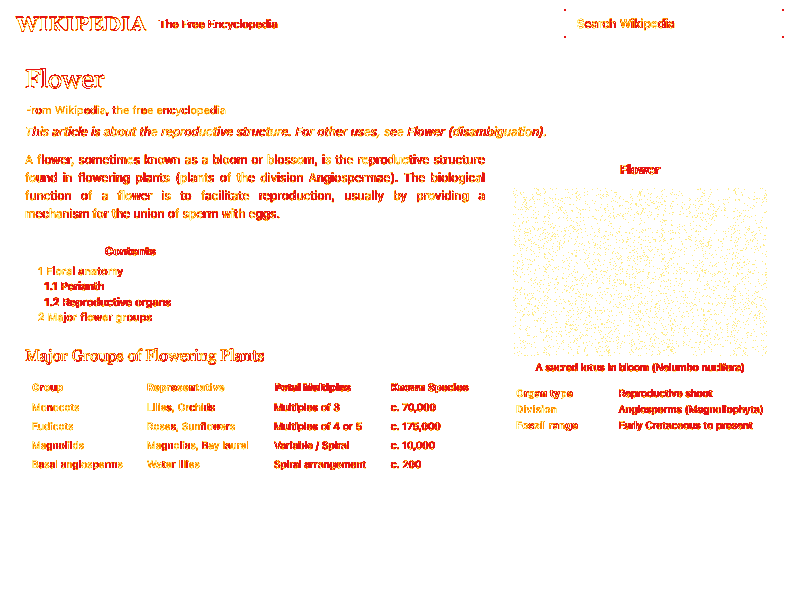
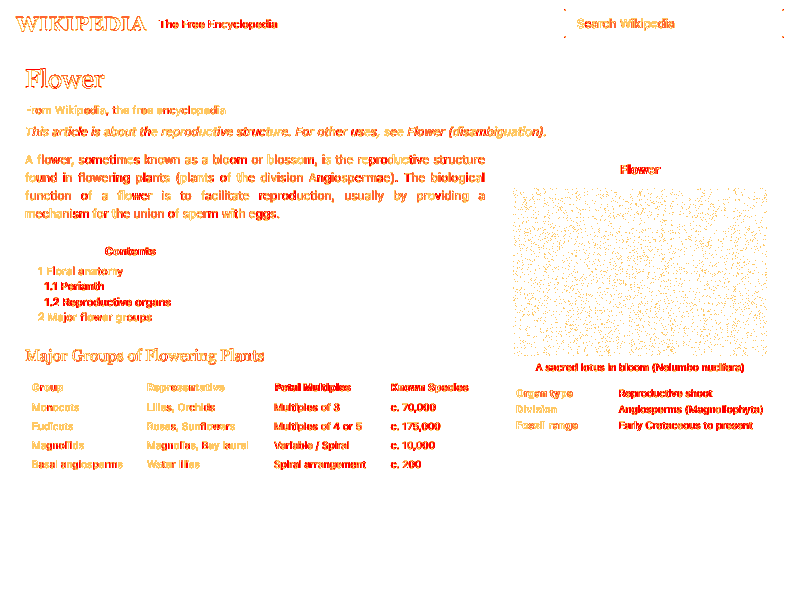
Regenerate PNGs and sync all differential heatmaps with dual-mode Chromium C99 engine

diff --git a/regen_all_pngs.py b/regen_all_pngs.py
@@ -1,0 +1,92 @@
+#!/usr/bin/env python3
+"""
+regen_all_pngs.py: Re-renders all multi-page formal engine PPMs, converts to PNGs,
+generates differential heatmaps against Chromium, and syncs artifacts.
+"""
+
+import subprocess
+import shutil
+import os
+from PIL import Image
+import compare_pages
+
+def main():
+    print("=== Step 1: Compiling Multi-Page Drop-in C99 Engine ===")
+    compile_cmd = [
+        "clang", "-O3", "-std=c99",
+        "render_wikipedia_flowers_multipage.c",
+        "blink_image_codec.c",
+        "blink_skia_font_engine.c",
+        "blink_vertical_flow.c",
+        "-framework", "CoreText",
+        "-framework", "CoreGraphics",
+        "-framework", "CoreFoundation"
+    ]
+    # Add FreeType flags
+    cflags = subprocess.check_output(["pkg-config", "--cflags", "--libs", "freetype2"], text=True).split()
+    compile_cmd.extend(cflags)
+    compile_cmd.extend(["-o", "render_wikipedia_flowers_multipage"])
+    
+    subprocess.run(compile_cmd, check=True)
+    print("✓ Successfully compiled render_wikipedia_flowers_multipage")
+
+    print("\n=== Step 2: Executing Multi-Page Renderer in Chromium Mode ===")
+    subprocess.run(["./render_wikipedia_flowers_multipage", "--mode=chromium"], check=True)
+    print("✓ Rendered multi-page PPMs (p1, p2, p3, full)")
+
+    print("\n=== Step 3: Converting PPMs to PNGs ===")
+    pages = ["p1", "p2", "p3", "full", ""]
+    for p in pages:
+        suffix = f"_{p}" if p else ""
+        ppm_name = f"blink_formal_wikipedia_flowers{suffix}.ppm"
+        png_name = f"blink_formal_wikipedia_flowers{suffix}.png"
+        if os.path.exists(ppm_name):
+            img = Image.open(ppm_name)
+            img.save(png_name)
+            print(f"  Converted {ppm_name} -> {png_name} ({img.size[0]}x{img.size[1]})")
+
+    # Also convert interactive runner ppm if present
+    if os.path.exists("blink_formal_rendered_page.ppm"):
+        img = Image.open("blink_formal_rendered_page.ppm")
+        img.save("blink_formal_rendered_page.png")
+        print("  Converted blink_formal_rendered_page.ppm -> blink_formal_rendered_page.png")
+
+    print("\n=== Step 4: Regenerating Differential Heatmaps vs Chromium ===")
+    pairs = [
+        ("blink_formal_wikipedia_flowers_p1.ppm", "chromium_wikipedia_flowers.png", "diff_wikipedia_flowers_p1.png"),
+        ("blink_formal_wikipedia_flowers_p2.ppm", "chromium_wikipedia_flowers_p2.png", "diff_wikipedia_flowers_p2.png"),
+        ("blink_formal_wikipedia_flowers_p3.ppm", "chromium_wikipedia_flowers_p3.png", "diff_wikipedia_flowers_p3.png"),
+        ("blink_formal_wikipedia_flowers_full.ppm", "chromium_wikipedia_flowers_full.png", "diff_wikipedia_flowers_full.png")
+    ]
+    for formal, chrom, diff in pairs:
+        compare_pages.compare_images(formal, chrom, diff)
+
+    # Also update diff_wikipedia_flowers.png (alias for p1)
+    shutil.copyfile("diff_wikipedia_flowers_p1.png", "diff_wikipedia_flowers.png")
+    print("✓ Copied diff_wikipedia_flowers_p1.png -> diff_wikipedia_flowers.png")
+
+    print("\n=== Step 5: Updating Artifact Directory ===")
+    artifact_dir = "/Users/anders/.gemini/antigravity/brain/272518ec-10f8-4697-9cc0-5de480e9211a"
+    if os.path.isdir(artifact_dir):
+        artifacts_to_copy = [
+            "blink_formal_wikipedia_flowers_p1.png",
+            "blink_formal_wikipedia_flowers_p2.png",
+            "blink_formal_wikipedia_flowers_p3.png",
+            "blink_formal_wikipedia_flowers_full.png",
+            "blink_formal_wikipedia_flowers.png",
+            "diff_wikipedia_flowers_p1.png",
+            "diff_wikipedia_flowers_p2.png",
+            "diff_wikipedia_flowers_p3.png",
+            "diff_wikipedia_flowers_full.png",
+            "diff_wikipedia_flowers.png",
+            "blink_formal_rendered_page.png"
+        ]
+        for art in artifacts_to_copy:
+            if os.path.exists(art):
+                dst = os.path.join(artifact_dir, art)
+                shutil.copyfile(art, dst)
+                print(f"  Synced {art} -> artifact directory")
+    print("\n✓ All PNGs and differential heatmaps regenerated and synchronized successfully!")
+
+if __name__ == "__main__":
+    main()

diff --git a/blink_dual_mode_z.h b/blink_dual_mode_z.h
@@ -63,3 +63,4 @@ static inline int64_t blink_z_partition_boundary(int64_t total_w, int64_t total_
 #endif
 
 #endif /* BLINK_DUAL_MODE_Z_H */
+
